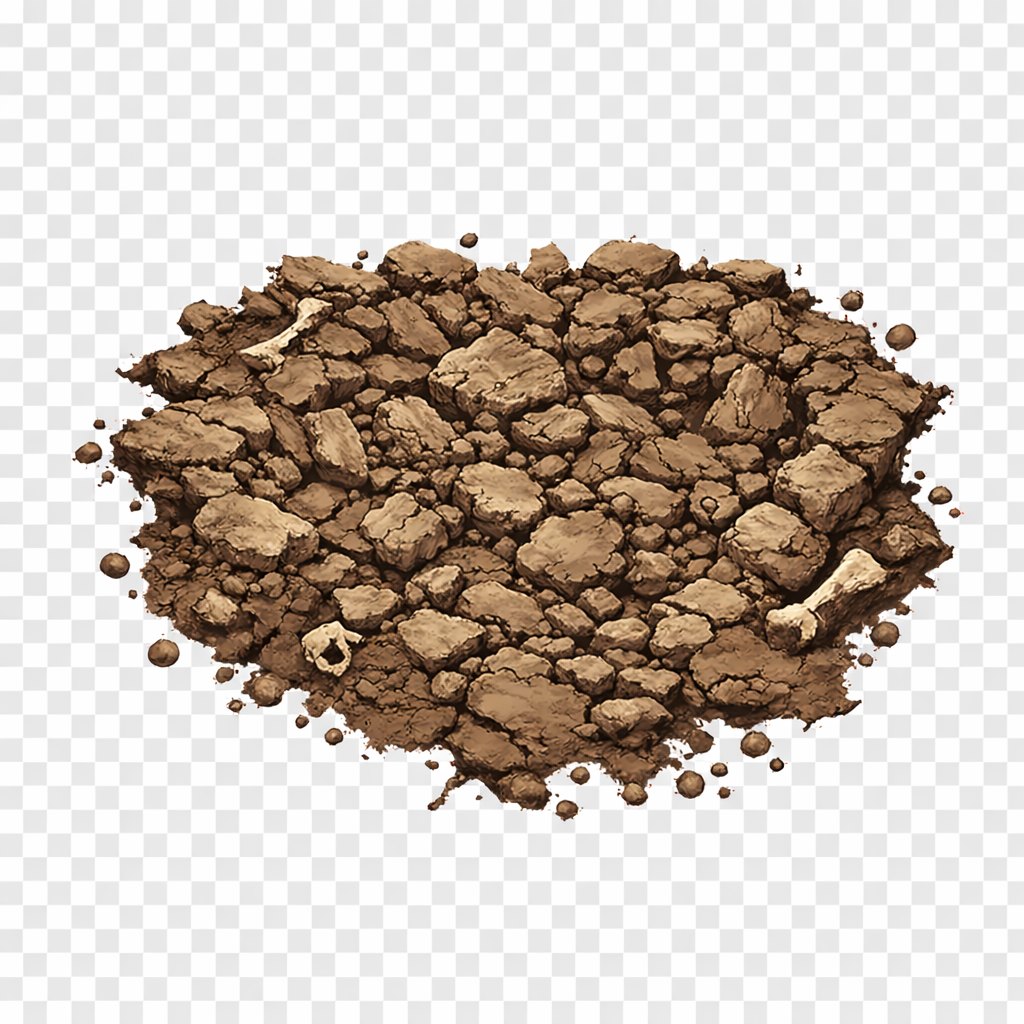
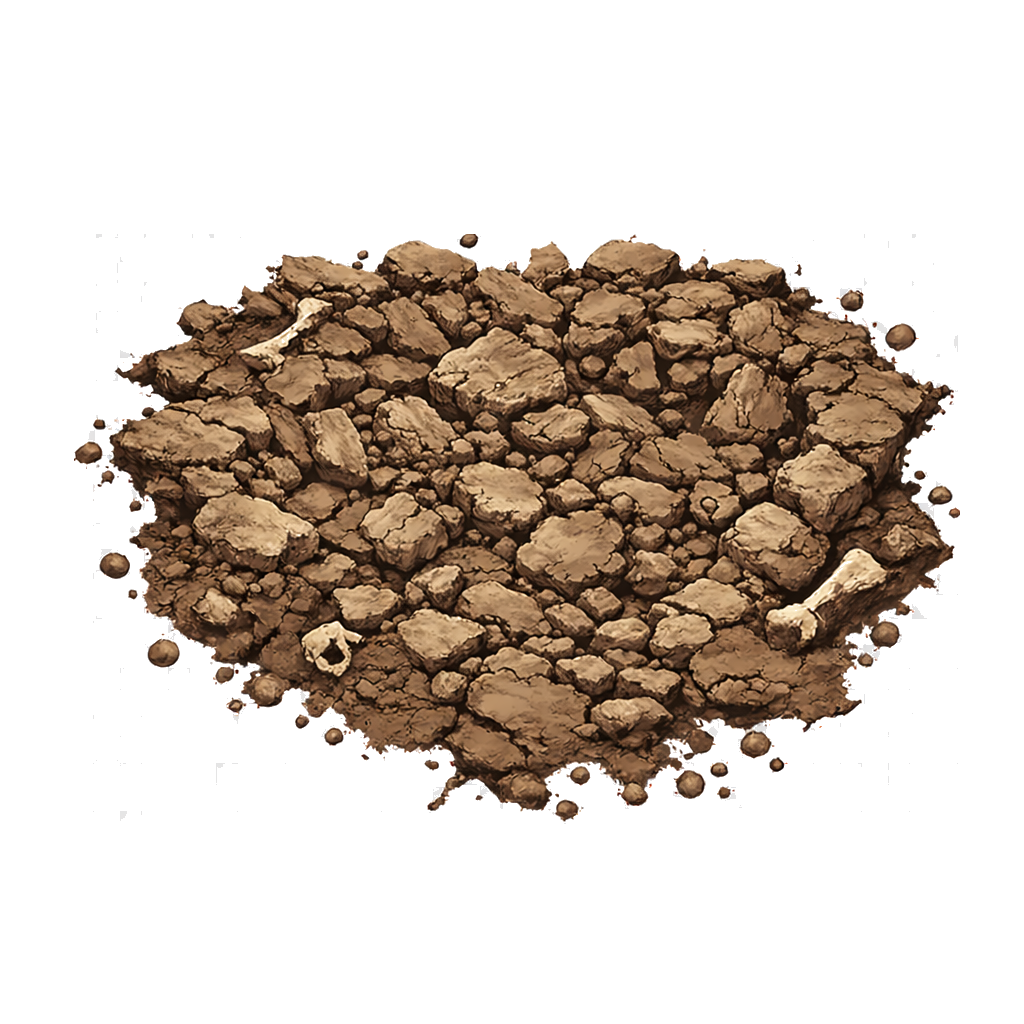
Improved bug base destroy

diff --git a/src/ecs/components/visual/BaseExplosionComponent.ts b/src/ecs/components/visual/BaseExplosionComponent.ts
@@ -1,60 +1,60 @@
 import type { Component } from '../../Component';
 import type { Entity } from '../../Entity';
-import { TransformComponent } from '../core/TransformComponent';
-import { createSmokeBurst } from './SmokeBurstHelper';
+import { SpriteComponent } from '../core/SpriteComponent';
+import { CollisionComponent } from '../combat/CollisionComponent';
 
 export class BaseExplosionComponent implements Component {
   entity!: Entity;
   private readonly scene: Phaser.Scene;
-  private readonly cellSize: number;
-  private shakeOffsetX = 0;
-  private shakeOffsetY = 0;
-  private originalX = 0;
-  private originalY = 0;
 
-  constructor(scene: Phaser.Scene, cellSize: number) {
+  constructor(scene: Phaser.Scene, _cellSize: number) {
     this.scene = scene;
-    this.cellSize = cellSize;
   }
 
   update(): void {
-    if (this.shakeOffsetX !== 0 || this.shakeOffsetY !== 0) {
-      const transform = this.entity.get(TransformComponent);
-      if (transform) {
-        transform.x = this.originalX + this.shakeOffsetX;
-        transform.y = this.originalY + this.shakeOffsetY;
-      }
-    }
+    // No update needed
   }
 
   explode(): void {
-    const transform = this.entity.require(TransformComponent);
+    const sprite = this.entity.require(SpriteComponent);
+    const collision = this.entity.get(CollisionComponent);
 
-    this.originalX = transform.x;
-    this.originalY = transform.y;
+    // Disable collision
+    if (collision) {
+      collision.enabled = false;
+    }
 
-    this.scene.tweens.add({
-      targets: transform,
-      scale: 0,
-      duration: 3000,
-      ease: 'Power2'
+    sprite.sprite.clearTint();
+    this.scene.time.delayedCall(150, () => {
+        sprite.sprite.setTexture('base_destroyed');
+
     });
+    // Change to destroyed texture, clear tint, and use current scale
 
-    this.scene.tweens.add({
-      targets: this,
-      shakeOffsetX: 3,
-      shakeOffsetY: 3,
-      duration: 100,
-      yoyo: true,
-      repeat: 30,
-      ease: 'Sine.easeInOut',
-      onComplete: () => {
-        this.shakeOffsetX = 0;
-        this.shakeOffsetY = 0;
+
+    // Stop all updates
+    this.entity.setUpdateOrder([]);
+
+    // Create particle burst
+    const emitter = this.scene.add.particles(sprite.sprite.x, sprite.sprite.y, 'base_particle', {
+      speed: { min: 40, max: 80 },
+      angle: { min: 0, max: 360 },
+      scale: { start: 1.3, end: 0 },
+      alpha: { start: 1, end: 0 },
+      lifespan: 700,
+      frequency: 5,
+      quantity: 70,
+      tint: [0xc8a078, 0x966e4b, 0xdcbe8c, 0xaf825f],
+      blendMode: 'NORMAL',
+      emitZone: {
+        type: 'random' as const,
+        source: new Phaser.Geom.Circle(0, 0, 55) as Phaser.Types.GameObjects.Particles.RandomZoneSource
       }
     });
 
-    createSmokeBurst(this.scene, transform.x, transform.y, this.cellSize, 6, 500);
+    emitter.setDepth(1000);
+    this.scene.time.delayedCall(200, () => emitter.stop());
+    this.scene.time.delayedCall(800, () => emitter.destroy());
   }
 
 }

diff --git a/src/assets/AssetLoader.ts b/src/assets/AssetLoader.ts
@@ -8,7 +8,7 @@ import type { LevelData } from '../systems/level/LevelLoader';
  * @param keys - Optional array of asset keys to load. If not provided, loads all assets
  */
 export function preloadAssets(scene: Phaser.Scene, keys?: AssetKey[]): void {
-  const keysToLoad: AssetKey[] = keys ?? ['player', 'attacker', 'floating_robot', 'exclamation', 'bullet_default', 'bullet_default_shell', 'smoke', 'robot_hit_particle', 'crosshair', 'slide_icon', 'fireball', 'fire', 'shadow', 'vignette', 'bug', 'bug_base', 'arrows', 'thrower', 'grenade', 'door_closed', 'dungeon_door', 'dungeon_key', 'rock', 'skeleton', 'bone_small', 'stone_stairs', 'stone_wall', 'stone_floor', 'dungeon_floor', 'dungeon_overlays', 'wall_torch', 'pillar'];
+  const keysToLoad: AssetKey[] = keys ?? ['player', 'attacker', 'floating_robot', 'exclamation', 'bullet_default', 'bullet_default_shell', 'smoke', 'robot_hit_particle', 'crosshair', 'slide_icon', 'fireball', 'fire', 'shadow', 'vignette', 'bug', 'bug_base', 'base_destroyed', 'base_particle', 'arrows', 'thrower', 'grenade', 'door_closed', 'dungeon_door', 'dungeon_key', 'rock', 'skeleton', 'bone_small', 'stone_stairs', 'stone_wall', 'stone_floor', 'dungeon_floor', 'dungeon_overlays', 'wall_torch', 'pillar'];
   keysToLoad.forEach((key: AssetKey) => {
     loadAsset(scene, key);
   });

diff --git a/src/assets/AssetRegistry.ts b/src/assets/AssetRegistry.ts
@@ -102,6 +102,16 @@ export const ASSET_REGISTRY = {
     path: 'assets/bug/base.png',
     type: 'image' as const,
   },
+  base_destroyed: {
+    key: 'base_destroyed',
+    path: 'assets/bug/base_destroyed.png',
+    type: 'image' as const,
+  },
+  base_particle: {
+    key: 'base_particle',
+    path: 'assets/bug/base_particle.png',
+    type: 'image' as const,
+  },
   arrows: {
     key: 'arrows',
     path: 'assets/player/arrows.png',
@@ -201,7 +211,7 @@ export const ASSET_GROUPS = {
   // Enemies
   stalking_robot: ['attacker'] as const,
   floating_robot: ['floating_robot', 'exclamation', 'fireball', 'fire', 'robot_hit_particle'] as const,
-  bug_base: ['bug_base', 'bug'] as const,
+  bug_base: ['bug_base', 'base_destroyed', 'base_particle', 'bug'] as const,
   thrower: ['thrower', 'grenade'] as const,
   skeleton: ['skeleton', 'bone_small'] as const,
 } as const;

diff --git a/src/ecs/components/visual/SmokeBurstHelper.ts b/src/ecs/components/visual/SmokeBurstHelper.ts
@@ -4,14 +4,16 @@ export function createSmokeBurst(
   y: number,
   cellSize: number,
   burstCount: number,
-  intervalMs: number
+  intervalMs: number,
+  texture: string = 'smoke',
+  spreadRadius: number = cellSize * 0.8
 ): void {
   for (let i = 0; i < burstCount; i++) {
     scene.time.delayedCall(i * intervalMs, () => {
-      const offsetX = (Math.random() - 0.5) * cellSize * 0.8;
-      const offsetY = (Math.random() - 0.5) * cellSize * 0.8;
+      const offsetX = (Math.random() - 0.5) * spreadRadius;
+      const offsetY = (Math.random() - 0.5) * spreadRadius;
 
-      const emitter = scene.add.particles(x + offsetX, y + offsetY, 'smoke', {
+      const emitter = scene.add.particles(x + offsetX, y + offsetY, texture, {
         speed: { min: 40, max: 80 },
         angle: { min: 0, max: 360 },
         scale: { start: 3, end: 0 },

diff --git a/src/ecs/entities/bug/BugBaseEntity.ts b/src/ecs/entities/bug/BugBaseEntity.ts
@@ -83,7 +83,7 @@ export function createBugBaseEntity(
           if (explosion) {
             explosion.explode();
           }
-          scene.time.delayedCall(3000, () => entity.destroy());
+         
         }
 
         scene.time.delayedCall(0, () => other.destroy());
